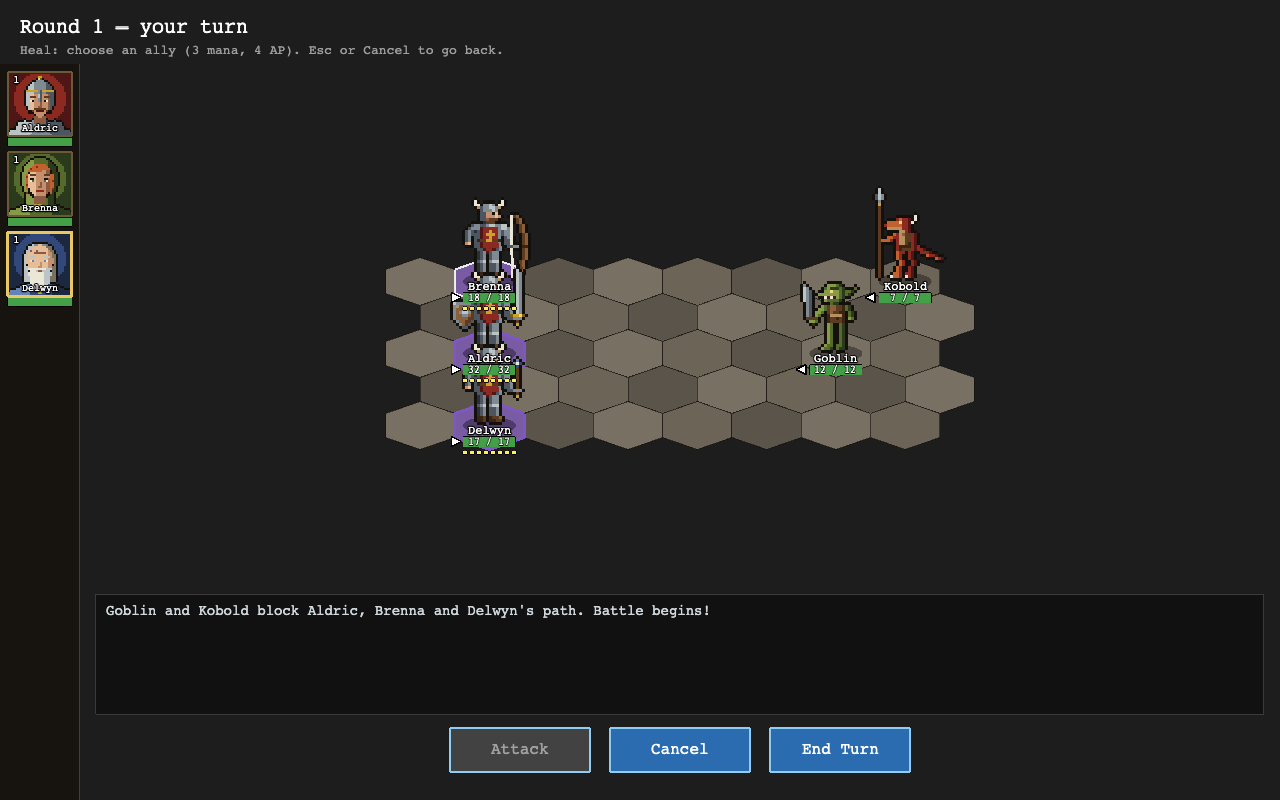
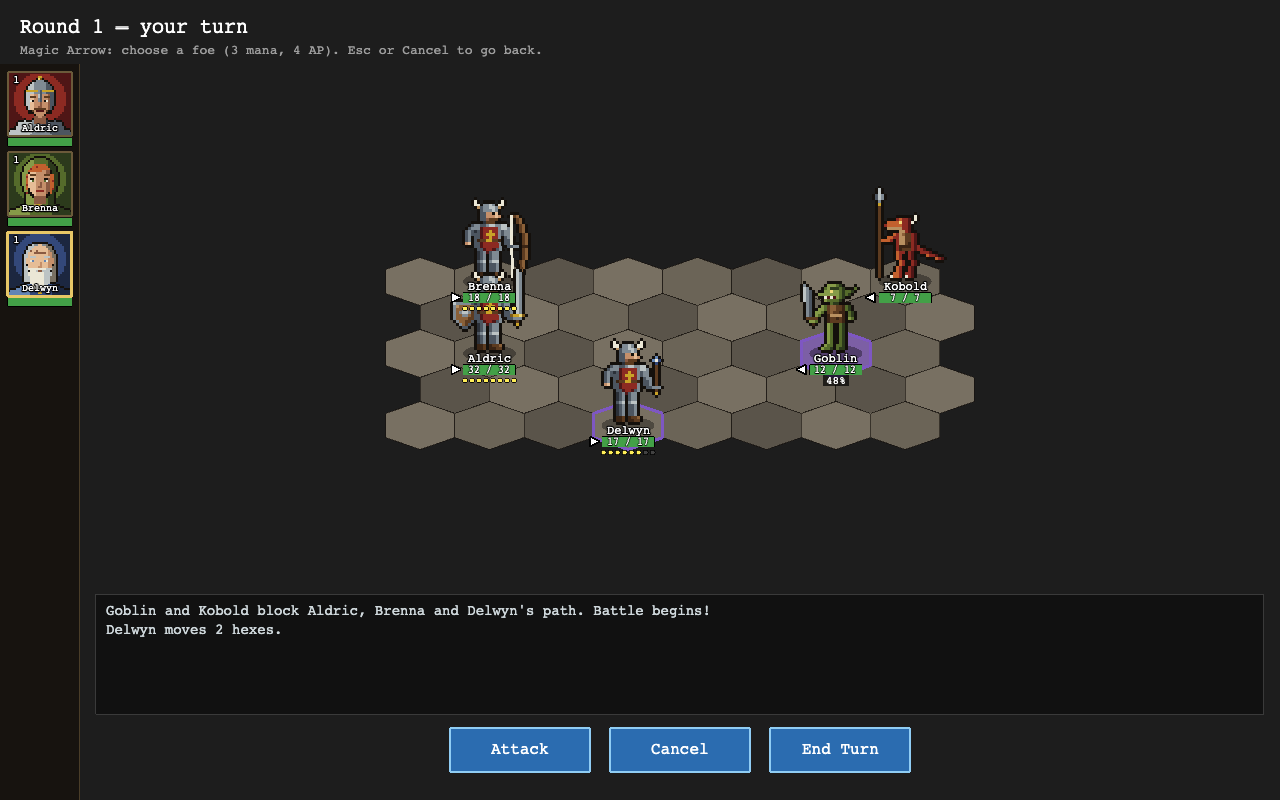
Say that camping refills mana on the Spells tab, and aim Magic Arrow in the manual's shot
The Spells tab said mana came back only with a battle or a level, but a day
of camping refills it too. The manual's targeting shot now steps the mage
forward and aims Magic Arrow at a foe instead of Heal.

diff --git a/e2e/manual.shots.ts b/e2e/manual.shots.ts
@@ -107,15 +107,19 @@ describe('the manual’s screenshots', () => {
     await game.hover(battleHexOnScreen(battle, nearest.position))
     await shot(game, 'battle-attack')
 
+    // The mage steps two hexes forward, to bring a foe within Magic Arrow's reach.
     await game.click(battle.party[2])
     await game.waitFor('Battle', (b) => b.selected === 'hero_3')
+    const mage = battle.state.units.find((u) => u.id === 'hero_3')!
+    await game.click(battleHexOnScreen(battle, { q: mage.position.q + 2, r: mage.position.r }))
+    const stepped = await game.waitFor('Battle', (b) => b.playerControl && b.state.units.find((u) => u.id === 'hero_3')!.ap === 6)
     await game.press('m')
     const menu = await game.waitFor('Battle', (b) => b.spellMenu !== null)
     await shot(game, 'battle-spell-menu')
-    const spell = menu.spellMenu!.find((row) => row.enabled)!
-    await game.click(spell)
-    await game.waitFor('Battle', (b) => b.casting !== null)
-    await game.hover(battleHexOnScreen(battle, hero.position))
+    await game.click(menu.spellMenu!.find((row) => row.spell === 'magic_arrow')!)
+    await game.waitFor('Battle', (b) => b.casting === 'magic_arrow')
+    const target = stepped.state.units.filter((u) => u.side === 'enemy').find((u) => hexDistance(stepped.state.units.find((m) => m.id === 'hero_3')!.position, u.position) <= 5)!
+    await game.hover(battleHexOnScreen(battle, target.position))
     await shot(game, 'battle-targeting')
     await game.press('Escape')
     await game.waitFor('Battle', (b) => b.casting === null)

diff --git a/src/scenes/InventoryScene.ts b/src/scenes/InventoryScene.ts
@@ -774,7 +774,7 @@ export class InventoryScene extends Phaser.Scene {
       : known.length === 0
         ? ''
         : this.canAdvance
-          ? `Out of battle a heal restores ${worldSpells(this.character).map(({ spell }) => `${worldHealing(spell)} (${SPELLS[spell].name})`).join(', ') || 'its average'}. Mana comes back only with a battle or a level.`
+          ? `Out of battle a heal restores ${worldSpells(this.character).map(({ spell }) => `${worldHealing(spell)} (${SPELLS[spell].name})`).join(', ') || 'its average'}. A day of camping or a new level refills mana.`
           : 'Spells are cast in battle with the Cast button (M).'
     content.add(
       this.add
